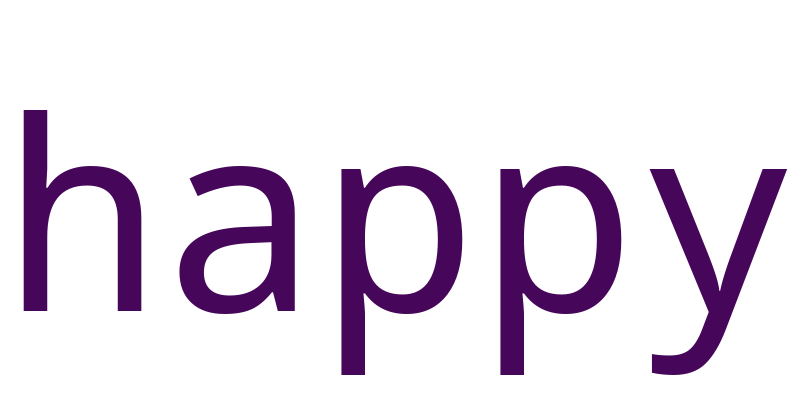
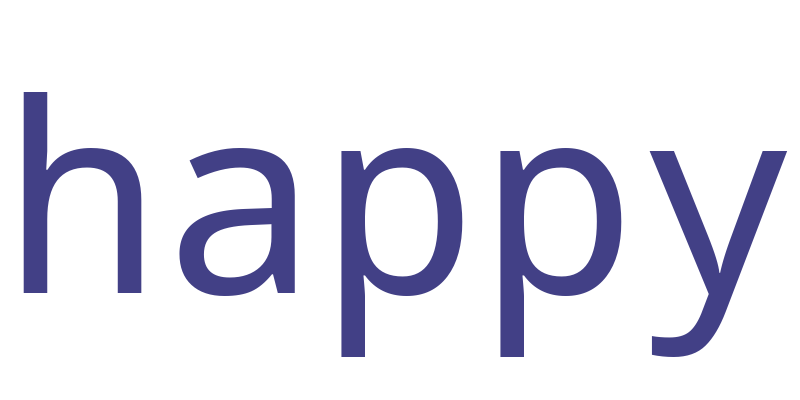
fixed render error

diff --git a/templates/dashboard.html b/templates/dashboard.html
@@ -1,0 +1,95 @@
+<!DOCTYPE html>
+<html>
+
+<head>
+
+    <title>Dashboard</title>
+
+    <style>
+
+        body {
+
+            font-family: Arial;
+            background: linear-gradient(to right, #667eea, #764ba2);
+            color: white;
+            text-align: center;
+            padding-top: 50px;
+        }
+
+        .card {
+
+            background: white;
+            color: black;
+            padding: 30px;
+            margin: 20px;
+            border-radius: 15px;
+            display: inline-block;
+            width: 220px;
+            font-size: 24px;
+        }
+
+        button {
+
+            background: #667eea;
+            color: white;
+            border: none;
+            padding: 10px 20px;
+            border-radius: 8px;
+            cursor: pointer;
+        }
+
+    </style>
+
+</head>
+
+<body>
+
+    <h1>Analytics Dashboard</h1>
+
+    <div class="card">
+
+        <h2>Total Reviews</h2>
+
+        <p>{{ total }}</p>
+
+    </div>
+
+    <div class="card">
+
+        <h2>Positive</h2>
+
+        <p>{{ positive }}</p>
+
+    </div>
+
+    <div class="card">
+
+        <h2>Negative</h2>
+
+        <p>{{ negative }}</p>
+
+    </div>
+
+    <div class="card">
+
+        <h2>Neutral</h2>
+
+        <p>{{ neutral }}</p>
+
+    </div>
+
+    <br><br>
+
+    <a href="/home">
+
+        <button>
+
+            Back to Home
+
+        </button>
+
+    </a>
+
+</body>
+
+</html>

diff --git a/app.py b/app.py
@@ -3,6 +3,8 @@ from flask_session import Session
 
 import pickle
 import matplotlib
+
+# IMPORTANT FOR RENDER
 matplotlib.use("Agg")
 
 import matplotlib.pyplot as plt
@@ -23,11 +25,37 @@ app.config["SESSION_TYPE"] = "filesystem"
 
 Session(app)
 
-# Load trained model
+# Load model
 model = pickle.load(open("sentiment_model.pkl", "rb"))
 
 # Load vectorizer
 vectorizer = pickle.load(open("vectorizer.pkl", "rb"))
+
+# ---------------- CREATE DATABASE ---------------- #
+
+conn = sqlite3.connect("history.db")
+
+cursor = conn.cursor()
+
+cursor.execute("""
+
+CREATE TABLE IF NOT EXISTS history (
+
+    id INTEGER PRIMARY KEY AUTOINCREMENT,
+
+    review TEXT,
+
+    prediction TEXT,
+
+    emotion TEXT
+
+)
+
+""")
+
+conn.commit()
+
+conn.close()
 
 # ---------------- LOGIN PAGE ---------------- #
 
@@ -37,7 +65,7 @@ def login():
     return render_template("login.html")
 
 
-# ---------------- LOGIN HANDLER ---------------- #
+# ---------------- LOGIN ---------------- #
 
 @app.route("/login", methods=["POST"])
 def handle_login():
@@ -46,7 +74,6 @@ def handle_login():
 
     password = request.form["password"]
 
-    # Simple login
     if username == "admin" and password == "admin123":
 
         session["user"] = username
@@ -56,7 +83,7 @@ def handle_login():
     return "Invalid Username or Password"
 
 
-# ---------------- HOME PAGE ---------------- #
+# ---------------- HOME ---------------- #
 
 @app.route("/home")
 def home():
@@ -67,7 +94,7 @@ def home():
     return render_template("index.html")
 
 
-# ---------------- SINGLE PREDICTION ---------------- #
+# ---------------- PREDICT ---------------- #
 
 @app.route("/predict", methods=["POST"])
 def predict():
@@ -75,19 +102,15 @@ def predict():
     if "user" not in session:
         return redirect("/")
 
-    # User input
     text = request.form["text"]
 
-    # Clean text
     cleaned_text = clean_text(text)
 
-    # Convert to vector
     vector_input = vectorizer.transform([cleaned_text])
 
-    # Predict sentiment
     prediction = model.predict(vector_input)[0]
 
-    # Emotion detection
+    # Emotion
     if prediction == "positive":
         emotion = "😊 Happy"
 
@@ -121,23 +144,20 @@ def predict():
 
     plt.title("Sentiment Analysis Result")
 
-    # Save chart
     plt.savefig("static/chart.png")
 
     plt.close()
 
-    # Create Word Cloud
+    # Word Cloud
     wordcloud = WordCloud(
         width=800,
         height=400,
         background_color="white"
     ).generate(cleaned_text)
 
-    # Save word cloud
     wordcloud.to_file("static/wordcloud.png")
 
-    # ---------------- SAVE TO DATABASE ---------------- #
-
+    # Save database
     conn = sqlite3.connect("history.db")
 
     cursor = conn.cursor()
@@ -166,7 +186,6 @@ def predict():
 
     conn.close()
 
-    # Return result
     return render_template(
         "index.html",
         prediction=prediction,
@@ -175,68 +194,23 @@ def predict():
     )
 
 
-# ---------------- CSV UPLOAD ---------------- #
-
[email redacted]("/upload", methods=["POST"])
-def upload():
-
-    if "user" not in session:
-        return redirect("/")
-
-    file = request.files["file"]
-
-    # Read CSV
-    df = pd.read_csv(file)
-
-    results = []
-
-    # Analyze reviews
-    for review in df["review"]:
-
-        cleaned = clean_text(review)
-
-        vector = vectorizer.transform([cleaned])
-
-        prediction = model.predict(vector)[0]
-
-        results.append(
-            {
-                "review": review,
-                "prediction": prediction
-            }
-        )
-
-    return render_template(
-        "index.html",
-        bulk_results=results
-    )
-
-
-# ---------------- ABOUT PAGE ---------------- #
+# ---------------- ABOUT ---------------- #
 
 @app.route("/about")
 def about():
 
-    if "user" not in session:
-        return redirect("/")
-
     return render_template("about.html")
 
 
-# ---------------- HISTORY PAGE ---------------- #
+# ---------------- HISTORY ---------------- #
 
 @app.route("/history")
 def history():
 
-    if "user" not in session:
-        return redirect("/")
-
-    # Connect database
     conn = sqlite3.connect("history.db")
 
     cursor = conn.cursor()
 
-    # Read history
     cursor.execute("SELECT * FROM history")
 
     data = cursor.fetchall()
@@ -246,6 +220,48 @@ def history():
     return render_template(
         "history.html",
         history=data
+    )
+
+
+# ---------------- DASHBOARD ---------------- #
+
[email redacted]("/dashboard")
+def dashboard():
+
+    conn = sqlite3.connect("history.db")
+
+    cursor = conn.cursor()
+
+    cursor.execute("SELECT COUNT(*) FROM history")
+
+    total = cursor.fetchone()[0]
+
+    cursor.execute(
+        "SELECT COUNT(*) FROM history WHERE prediction='positive'"
+    )
+
+    positive = cursor.fetchone()[0]
+
+    cursor.execute(
+        "SELECT COUNT(*) FROM history WHERE prediction='negative'"
+    )
+
+    negative = cursor.fetchone()[0]
+
+    cursor.execute(
+        "SELECT COUNT(*) FROM history WHERE prediction='neutral'"
+    )
+
+    neutral = cursor.fetchone()[0]
+
+    conn.close()
+
+    return render_template(
+        "dashboard.html",
+        total=total,
+        positive=positive,
+        negative=negative,
+        neutral=neutral
     )
 
 
@@ -259,7 +275,7 @@ def logout():
     return redirect("/")
 
 
-# ---------------- RUN APP ---------------- #
+# ---------------- RUN ---------------- #
 
 if __name__ == "__main__":
     app.run(debug=True)